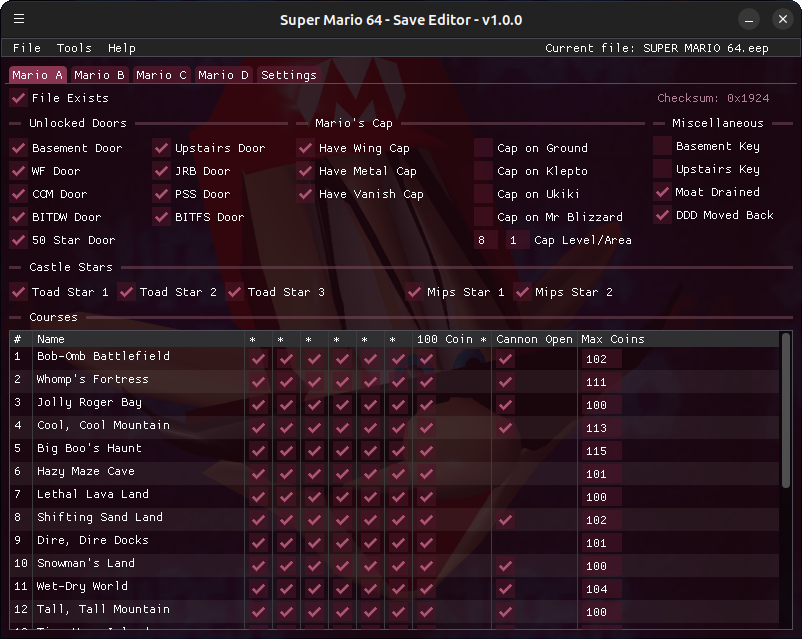
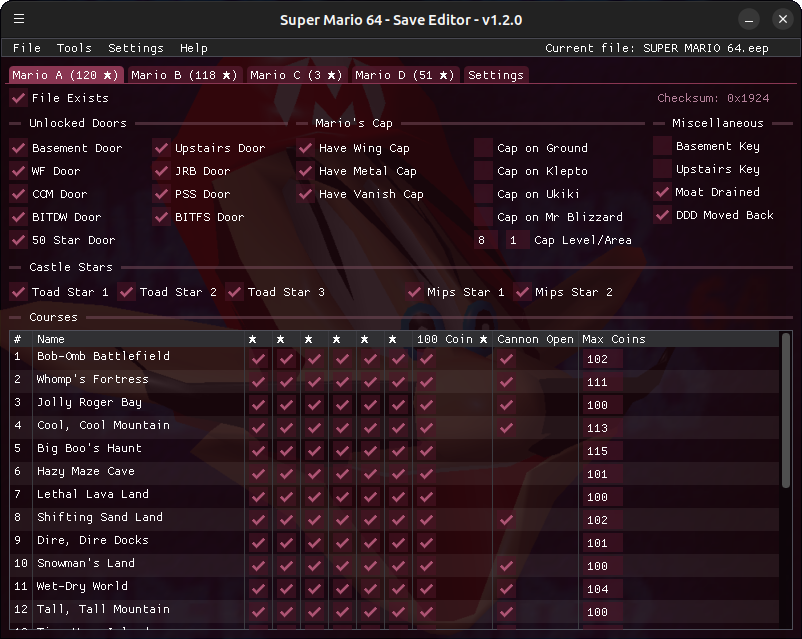
Updated changelog and screenshot.

diff --git a/CHANGELOG.md b/CHANGELOG.md
@@ -6,6 +6,11 @@ and this project adheres to [Semantic Versioning](https://semver.org/spec/v2.0.0
 
 ## [Unreleased]
 
+## [1.2.0] - 2023-07-23
+### Added
+- Be able to see the total star count of each save slot.
+- Added the star symbol of the game replacing asterisks.
+
 ## [1.1.0] - 2023-07-23
 ### Added
 - Implemented configurable window opacity.
